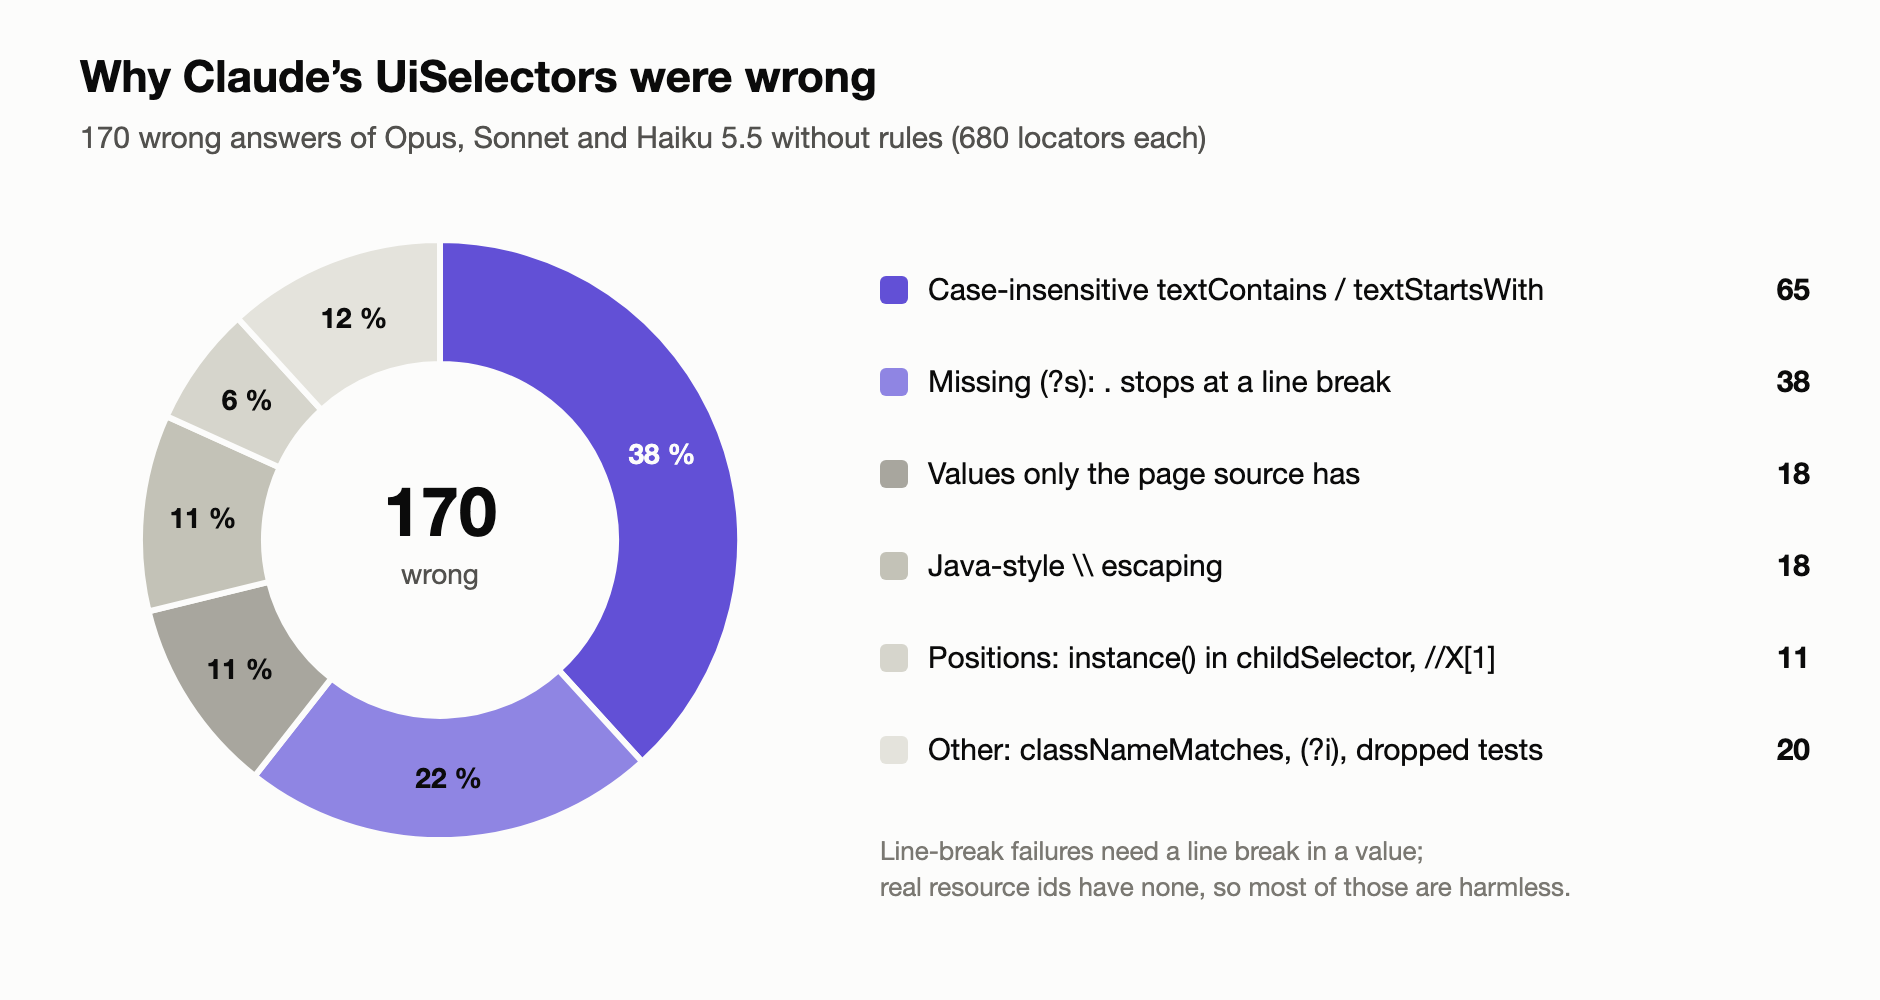
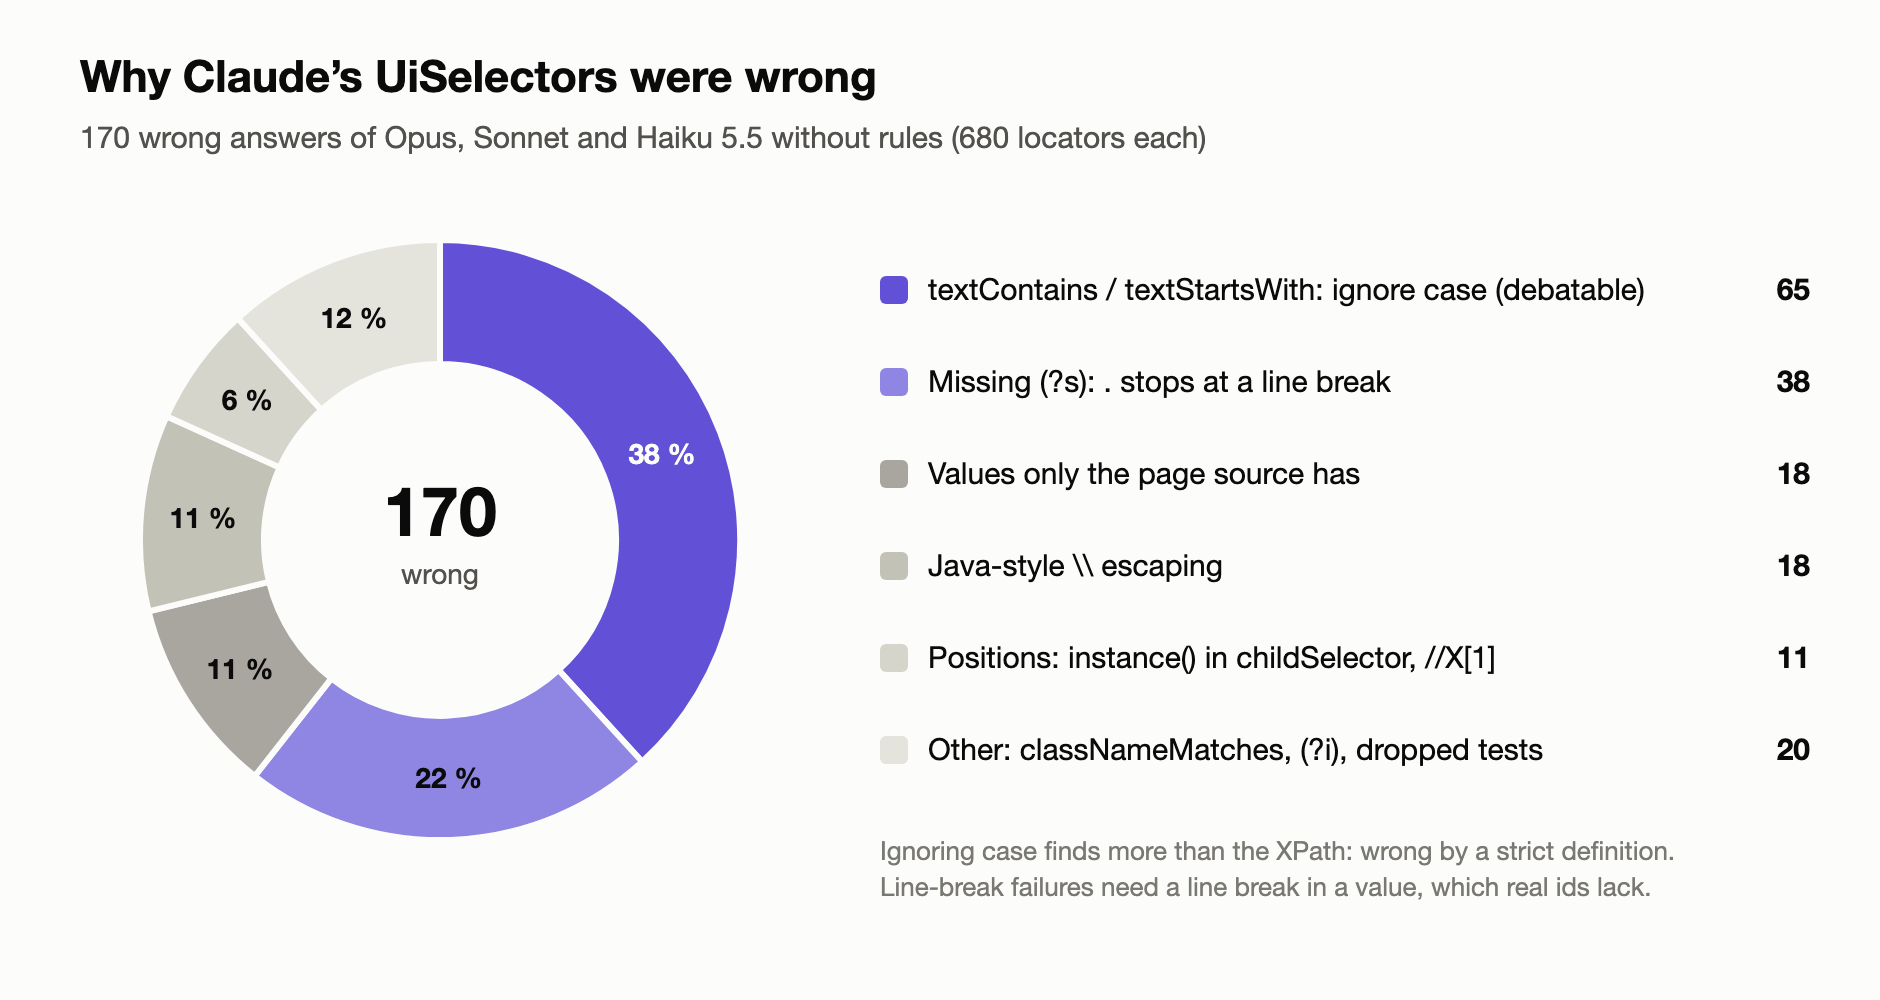
docs: article — strict by default, --loose, and is textContains really wrong?

Changed region(s): [[0.4628, 0.837, 0.8947, 0.899], [0.4936, 0.279, 0.8947, 0.31]]

diff --git a/docs/articles/img/charts.js b/docs/articles/img/charts.js
@@ -125,7 +125,7 @@ const write = (name, s) => fs.writeFileSync(path.join(out, name), s);
 // 3. Mistakes of the three no-rules runs, by kind (donut).
 {
   const parts = [
-    ['Case-insensitive textContains / textStartsWith', 65, C.accent, C.surface],
+    ['textContains / textStartsWith: ignore case (debatable)', 65, C.accent, C.surface],
     ['Missing (?s): . stops at a line break', 38, '#8f85e3', C.ink],
     ['Values only the page source has', 18, '#a8a69e', C.ink],
     ['Java-style \\\\ escaping', 18, '#c3c2b7', C.ink],
@@ -157,8 +157,8 @@ const write = (name, s) => fs.writeFileSync(path.join(out, name), s);
     b += t(905, ly, n, { anchor: 'end', size: 15, weight: 600 });
     ly += 46;
   }
-  b += t(440, ly + 4, 'Line-break failures need a line break in a value;', { fill: C.muted, size: 13 });
-  b += t(440, ly + 22, 'real resource ids have none, so most of those are harmless.', { fill: C.muted, size: 13 });
+  b += t(440, ly + 4, 'Ignoring case finds more than the XPath: wrong by a strict definition.', { fill: C.muted, size: 13 });
+  b += t(440, ly + 22, 'Line-break failures need a line break in a value, which real ids lack.', { fill: C.muted, size: 13 });
   write('llm-mistakes.svg', svg(940, 500, 'Wrong UiSelectors of three Claude 5.5 runs without rules, by kind of mistake', b));
 }
 
@@ -176,8 +176,8 @@ const write = (name, s) => fs.writeFileSync(path.join(out, name), s);
     t(920, y0 + 38, verdict, { size: 17, anchor: 'end', fill: ok ? '#5fd38d' : '#ff7a72', weight: 600 });
   b += t(80, 196, esc('//*[contains(@text,"Total")]'), { size: 20, fill: '#d8d6cf', family: MONO });
   b += t(470, 196, 'also matches “TOTAL”?', { size: 17, fill: '#a7a59d' });
-  b += card(214, 'Claude', 'textContains("Total")', '✗ yes, wrong', false);
-  b += card(290, 'Converter', 'textMatches("(?s).*Total.*")', '✓ no, exact', true);
+  b += card(214, 'Claude', 'textContains("Total")', '✗ yes: wider', false);
+  b += card(290, 'Converter', 'textMatches("(?s).*Total.*")', '✓ no: exact', true);
   b += t(56, 398, '680 locators · emulator-checked · converter: 0 wrong · Claude without rules: 47–63 wrong', { size: 16, fill: '#a7a59d' });
   write('cover.svg', svg(W, 420, 'XPath to Android UiSelector: can Claude 5.5 replace a converter?', b).replace(`<rect width="${W}" height="420" fill="${C.surface}"/>\n`, ''));
 }

diff --git a/docs/articles/01-xpath-to-uiselector.md b/docs/articles/01-xpath-to-uiselector.md
@@ -17,7 +17,7 @@ and the benchmark's REPORT.md (github.com/domovou69/appium-android-locator-bench
 
 - **UiSelector is faster than XPath on Android:** it won all 30 benchmark cases. It saved 49 % per lookup at 100 elements and 12 % at 2000 (emulator). Below level 70 of the tree, XPath finds nothing at all.
 - **73 % of 1645 real XPath locators convert** to a `UiSelector`. Every converted one ran on an emulator with **0 wrong** results; the rest are skipped with a reason.
-- **Claude 5.5 without rules: 47–63 wrong UiSelectors out of 680** (7–9 %). They look right and often pass a quick check. With a rules prompt, Opus and Sonnet made 1 and Haiku 4, and still no model beat the converter.
+- **Claude 5.5 without rules: 47–63 wrong UiSelectors out of 680** (7–9 %). They look right and often pass a quick check. 65 of the 170 are `textContains`, which ignores case: wrong by a strict definition, and [open to debate](#is-textcontains-really-wrong). With a rules prompt, Opus and Sonnet made 1 and Haiku 4, and still no model beat the converter.
 
 ```bash
 npx xpath-to-uiselector ./tests          # preview the diff
@@ -36,6 +36,7 @@ Or paste a single XPath into the [online converter](https://domovou69.github.io/
 4. [What the converter does](#what-the-converter-does)
 5. [How I checked it](#how-i-checked-it)
 6. [Claude 5.5 against the converter](#claude-55-against-the-converter)
+   - [Is textContains really wrong?](#is-textcontains-really-wrong)
 7. [Android is harder than iOS](#android-is-harder-than-ios)
 8. [The future of UiSelector](#the-future-of-uiselector)
 9. [What I would use](#what-i-would-use)
@@ -76,7 +77,7 @@ It has no direct-child or parent step and no position among siblings: `childSele
 
 The simple rows above are what everyone converts correctly. The trouble is the methods whose names promise the same thing as XPath but behave differently. All of these were checked on the emulator:
 
-| XPath | Looks right | Why it is wrong |
+| XPath | Looks right | How it differs |
 | --- | --- | --- |
 | `contains(@text,"Total")` | `textContains("Total")` | `textContains` and `textStartsWith` **ignore case**: this also finds "TOTAL". Exact: `textMatches("(?s).*Total.*")` |
 | `matches(@resource-id,".*\.ok")` | `resourceIdMatches(".*\\.ok")` in the locator text | The server's string literal unescapes only `\"`, so the regex gets `\\.`, a literal backslash. It matches nothing |
@@ -85,7 +86,7 @@ The simple rows above are what everyone converts correctly. The trouble is the m
 | `//ListView/TextView` | `…childSelector(…)` | That is any descendant. UiSelector has no direct child, so there is no exact form |
 | `ends-with(@text,"USD")` | "skip: XPath 2.0" | The driver runs XPath 2.0 unless `enforceXPath1` is set. `matches()`, `ends-with()`, `lower-case()` all work |
 
-None of these fails loudly. The first one is the dangerous kind: the test passes today and taps the wrong element when someone adds a "TOTAL" label.
+None of these fails loudly. The first one is debatable (more on that [below](#is-textcontains-really-wrong)), but it changes what the locator finds without anyone noticing: the test passes today and taps another element when someone adds a "TOTAL" label above it.
 
 ## What the converter does
 
@@ -106,6 +107,8 @@ Every XPath ends up in one of three groups:
 - **Exact:** the `UiSelector` finds the same elements in the same order.
 - **Close:** the same first element, but not always the same list, for example `//A//B` → `childSelector`. It comes with a warning, and `--exact` leaves these alone.
 - **Skip:** there is no exact `UiSelector`. Most skips come with a hint on how to rewrite the locator by hand.
+
+**The default is strict:** a converted locator finds the same elements as your XPath, so `contains(@text,"Total")` becomes the case-sensitive `textMatches("(?s).*Total.*")`. If you prefer simpler, more tolerant locators, `--loose` writes `textContains` / `textStartsWith` (they ignore case) and turns a direct child `//A/B` into `childSelector`. Each loose form is marked close with a warning. On the real locators, `--loose` converts 77 % instead of 73 %.
 
 The bare command only previews. `--write` saves, `--json` writes a report with every skip and warning. Node.js 20+, no dependencies. To try a single XPath without installing anything, use the [online converter](https://domovou69.github.io/xpath-to-uiselector/): it runs the same code in the browser.
 
@@ -149,7 +152,7 @@ I used the same setup as in the [iOS comparison](https://dev.to/mikhail_yesipchu
 
 ![170 wrong UiSelectors of the three runs without rules, by kind of mistake](img/llm-mistakes.png)
 
-More than a third of all wrong answers are one trap: `textContains` for `contains()`. Every model fell into it 20–23 times. The next group is a regex without `(?s)`, where `.` stops at a line break; real resource ids have no line breaks, so those are mostly harmless. Then come the Java-style `\\` (Sonnet alone: 15), values that exist only in the page source (an empty text, a toast, a slider's value), and positions inside `childSelector`.
+More than a third of all wrong answers are one pattern: `textContains` for `contains()`. Every model wrote it 20–23 times. The next group is a regex without `(?s)`, where `.` stops at a line break; real resource ids have no line breaks, so those are mostly harmless. Then come the Java-style `\\` (Sonnet alone: 15), values that exist only in the page source (an empty text, a toast, a slider's value), and positions inside `childSelector`.
 
 {% details Mistakes per model %}
 
@@ -166,6 +169,14 @@ More than a third of all wrong answers are one trap: `textContains` for `contain
 Each wrong answer is counted once, under the first mistake it shows.
 
 {% enddetails %}
+
+### Is textContains really wrong?
+
+By the definition of this test, yes: `contains(@text,"Total")` does not find "TOTAL", and `textContains("Total")` does. The judge screens include such traps on purpose, so every one of the 65 answers found an extra element there.
+
+In a real app it is less clear. Many people who write `contains(@text,"Total")` probably never thought about case, and a case-insensitive locator survives a designer switching a label to upper case. The cost is the other side of the same thing: a migration of hundreds of locators quietly makes each one wider. Where a "TOTAL" header sits above the "Total: $5" line, `findElement` now returns the header. And a check that the label reads "Total" no longer catches a change to "TOTAL".
+
+That is why the converter is strict by default and `--loose` is a flag you turn on knowingly. If you count `textContains` as acceptable, the models made **27, 37 and 41** wrong answers without rules instead of 47, 60 and 63. Which side are you on? Tell me in the comments.
 
 ### A prompt with rules
 
@@ -188,7 +199,7 @@ The comparison also tested the converter. The first Opus run found **one real co
 
 ## Android is harder than iOS
 
-On iOS, the same three Claude 5.5 models with a plain request made **4–7 wrong class chains out of 676**. On Android they made **47–63 out of 680**, roughly ten times as many.
+On iOS, the same three Claude 5.5 models with a plain request made **4–7 wrong class chains out of 676**. On Android they made **47–63 out of 680**, roughly ten times as many, and still 27–41 if `textContains` counts as fine.
 
 My explanation: a class chain filter is an NSPredicate, a language the models know well, and its `CONTAINS` is case-sensitive unless you add `[c]`, just like XPath. `UiSelector` reuses XPath-like names with different meanings: `textContains` ignores case, the string literal is not Java, `instance` inside `childSelector` counts per container. Those are exactly the mistakes in the chart above. A model that "knows" UiSelector from Java code samples has seen these methods used, but rarely with the details that make them differ from XPath.
 
@@ -205,7 +216,7 @@ So converting today is a bet on a few more years of speed, not forever. XPath lo
 1. **The converter first.** It is free, offline, takes under a second for 680 locators, gives the same answer every time and made no wrong `UiSelector`.
 2. **A model only for what the converter skips**, with [the rules](https://github.com/domovou69/xpath-to-uiselector/blob/main/audit/llm/rules.md) in the prompt. Sonnet 5.5 at `medium` was as good as Opus for half the cost. Most skips have no exact `UiSelector` at all, so expect an explanation rather than a conversion.
 3. **Never paste a model's `UiSelector` into a test without running it** on the screen it is meant for. Without the rules, about one in twelve was wrong, and none of them looked wrong.
-4. **Run `--exact` first** if you want only conversions with no caveats, then review the close ones.
+4. **Run `--exact` first** if you want only conversions with no caveats, then review the close ones. Add `--loose` only if you want case-insensitive locators and accept that they find more.
 
 If you use Claude Code, the repository has a [skill](https://github.com/domovou69/xpath-to-uiselector/tree/main/.claude/skills/xpath-to-uiselector) that does exactly that: it runs the converter, then reviews each skipped locator and suggests a rewrite, marked as unverified.
 
